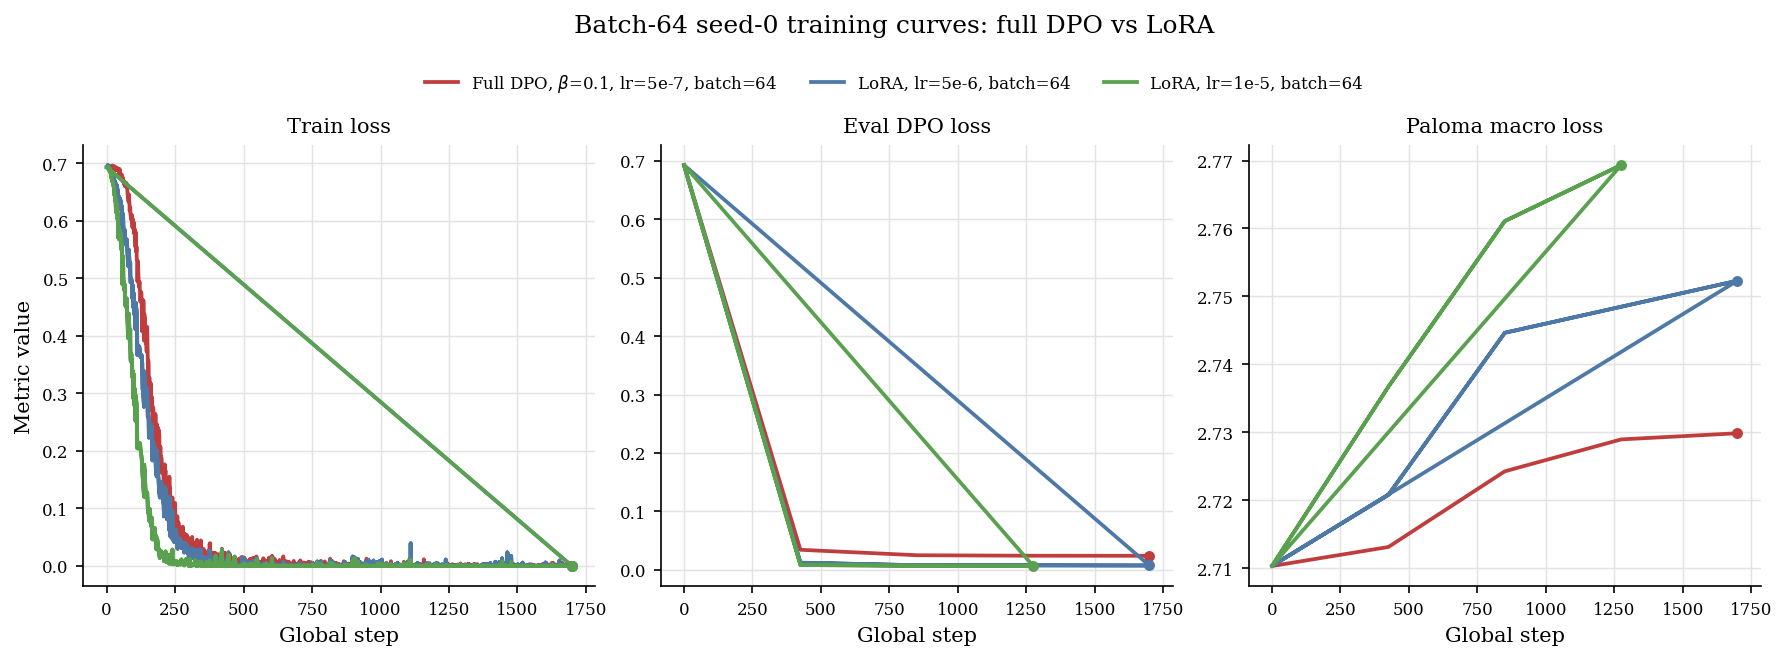
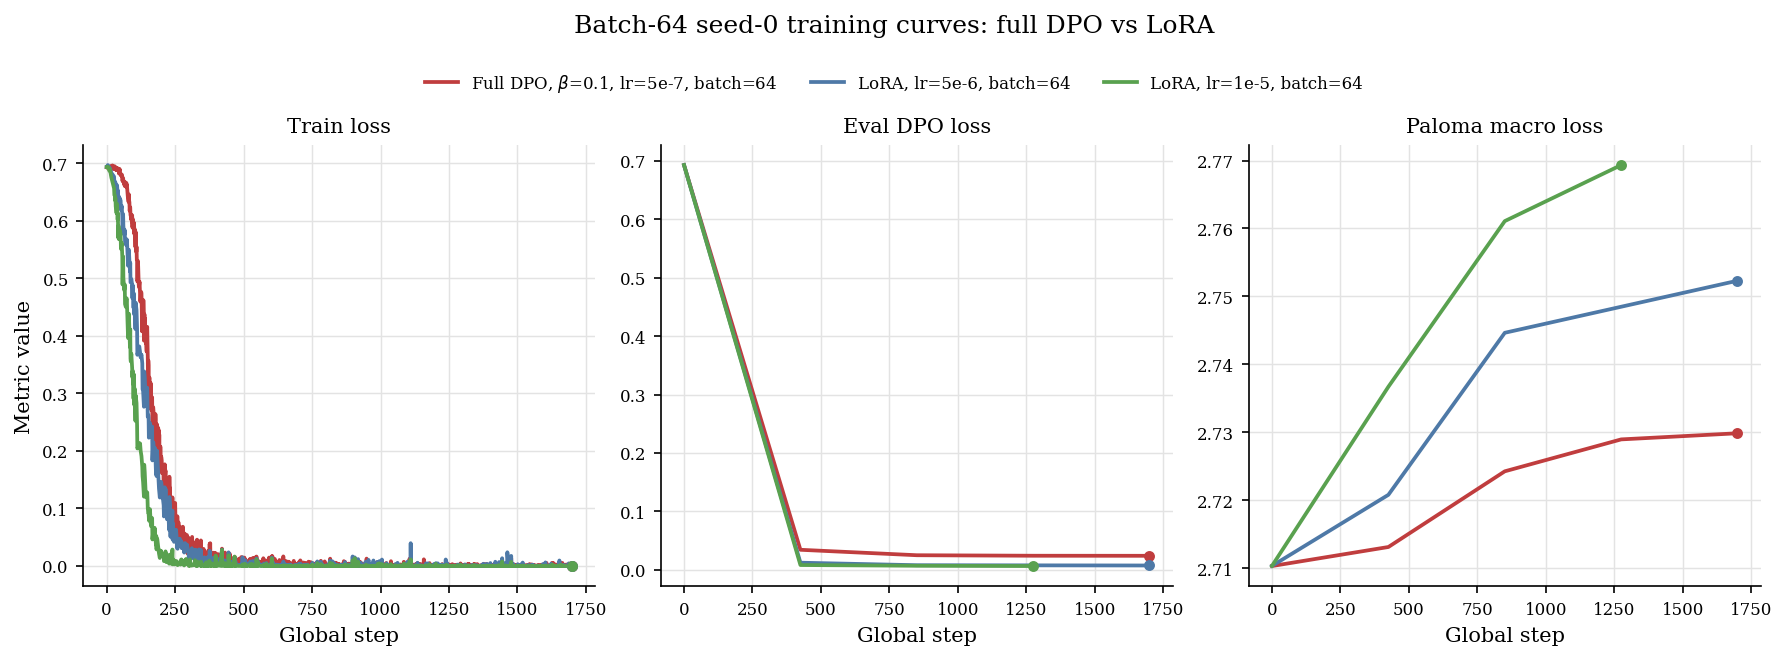
[plots] Deduplicate W&B history in batch-64 figures

diff --git a/experiments/posttrain/tpu_adhere.py b/experiments/posttrain/tpu_adhere.py
@@ -159,8 +159,13 @@ TRAIN_LOSS_KEY = "train/loss"
 
 
 def load_metric_history(history_path: Path, metric_key: str) -> list[tuple[int, float]]:
-    """Load non-null metric points from an archived W&B history file."""
-    points: list[tuple[int, float]] = []
+    """Load non-null metric points from an archived W&B history file.
+
+    W&B history exports can contain restart segments where global_step resets
+    and previously logged points are replayed. For plotting, collapse duplicate
+    steps by keeping the last observed value and then sort by step.
+    """
+    points_by_step: dict[int, float] = {}
     with gzip.open(history_path, "rt", encoding="utf-8") as f:
         for line in f:
             row = json.loads(line)
@@ -168,8 +173,8 @@ def load_metric_history(history_path: Path, metric_key: str) -> list[tuple[int, 
             global_step = row.get("global_step")
             if metric_value is None or global_step is None:
                 continue
-            points.append((int(global_step), float(metric_value)))
-    return points
+            points_by_step[int(global_step)] = float(metric_value)
+    return sorted(points_by_step.items())
 
 
 def final_metric_value(history_path: Path, metric_key: str) -> float:
